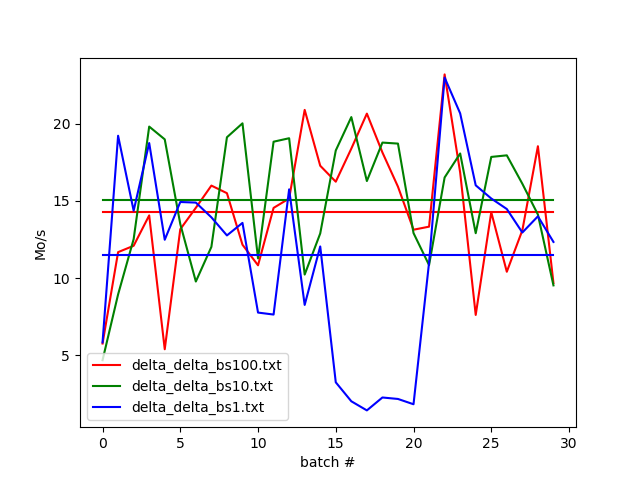
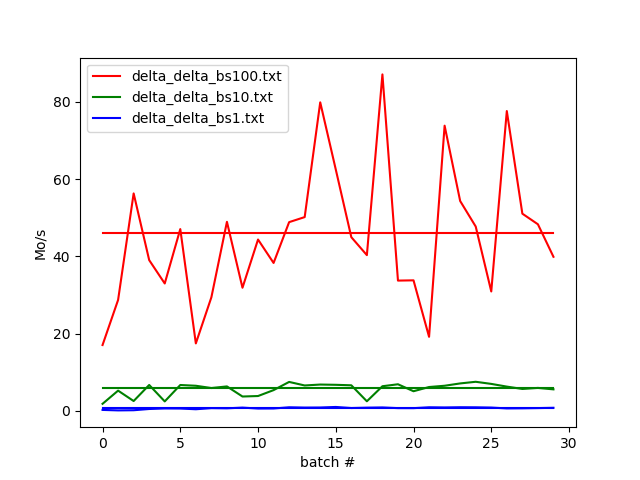
evaluate> show file size increments to show real block size

diff --git a/evaluation/check.py b/evaluation/check.py
@@ -5,48 +5,55 @@ import pandas as pd
 import matplotlib.pyplot as plt
 import numpy as np
 
-data = []
 
 colors = ["r", "g", "b", "c", "m", "y", "k"]
 
-def check(num, file_name):
-    global data
 
+class Value(object):
+    def __init__(self, batch):
+        self.batch = batch
+        self.time = 0
+        self.size = 0
+
+
+def check(num, file_name):
     with open(file_name) as f:
         content = f.readlines()
 
     content = [x.strip() for x in content]
 
     values = []
+
+    start_batch = False
+    value = None
+
+    keys = ("batch #", "Write block 0h0m", "increment=")
+
     for line in content:
-        if "Write block" in line:
-            line = line.split("Write block 0h0m")[1]
-            x = line.split("s")
-            values.append(float(x[0]))
+        if "batch #" in line:
+            batch = int(line.split(keys[0])[1])
+            value = Value(batch)
+            start_batch = True
+        if start_batch and (keys[1] in line):
+            t = line.split(keys[1])[1]
+            t = t.split("s")
+            value.time = float(t[0])
+            print("time={}".format(value.time))
+        if start_batch and (keys[2] in line):
+            t = line.split(keys[2])[1]
+            size = float(t)
+            print("size={}".format(size))
+            value.size = size
+            values.append(value)
+            start_batch = False
 
     # values = [22.581, 20.183, 19.148, 18.585, 17.347, 19.156, 15.076, 22.181, 20.943, 19.537]
     print(values)
 
 
     if len(values) > 0:
-        import subprocess
-        cmd = "hdfs dfs -du -h /user/chris.arnault/"
-        result = subprocess.check_output(cmd, shell=True).decode().split("\n")
-        for line in result:
-            if "/user/chris.arnault/xyz" in line:
-                a = line.split()
-                size = float(a[0])
-                scale = a[1]
-                if scale == 'G':
-                    size *= 1024
-                print(size)
-                block = size/len(values)
-                print(block)
-
-        values = [block/v for v in values]
-        y_mean = [np.mean(values)]*len(values)
-        print(values, y_mean)
-        data.append(values)
+        values = [v.size/v.time for v in values]
+        y_mean = [np.mean(values[1:])]*len(values)
         plt.plot(values, label=file_name, color=colors[num])
         plt.plot(y_mean, color=colors[num])
 
@@ -62,3 +69,4 @@ if __name__ == "__main__":
     plt.xlabel("batch #")
     plt.legend()
     plt.show()
+

diff --git a/evaluation/pydelta.py b/evaluation/pydelta.py
@@ -118,6 +118,8 @@ def bench1(spark, conf):
 
     print("real batch_size={}".format(batch_size))
 
+    previous_size = 0
+
     for batch in range(conf.loops):
         print("batch #{}".format(batch))
 
@@ -136,7 +138,11 @@ def bench1(spark, conf):
             df.write.format(conf.file_format).mode("append").save(conf.dest)
         s.show_step("Write block")
 
-        print("file_size={}".format(get_file_size(conf)))
+        new_size = get_file_size(conf)
+        increment = new_size - previous_size
+        previous_size = new_size
+
+        print("file_size={} increment={}".format(new_size, increment))
 
     s = Stepper()
     df = spark.read.format(conf.file_format).load(conf.dest)
